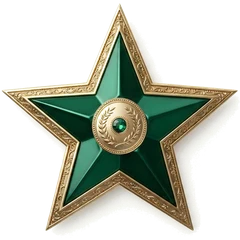
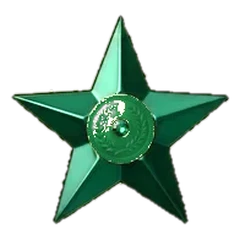
렉시오: 별 금테·가운데 원 제거, 달 금테 제거, 해를 빨간색만으로 (v9.2)
Claude-Session: https://claude.ai/code/session_018kcaK1YQGkv4UBC623yDa1

diff --git a/js/config.js b/js/config.js
@@ -1,6 +1,6 @@
 // 앱 이름
 export const APP_NAME = 'O게임';
-export const APP_VERSION = 'v9.1';
+export const APP_VERSION = 'v9.2';
 
 // Firebase 설정 — Firebase 콘솔 > 프로젝트 설정 > 내 앱 에서 복사한 값
 // apiKey를 비우면 "테스트 모드"로 동작합니다
